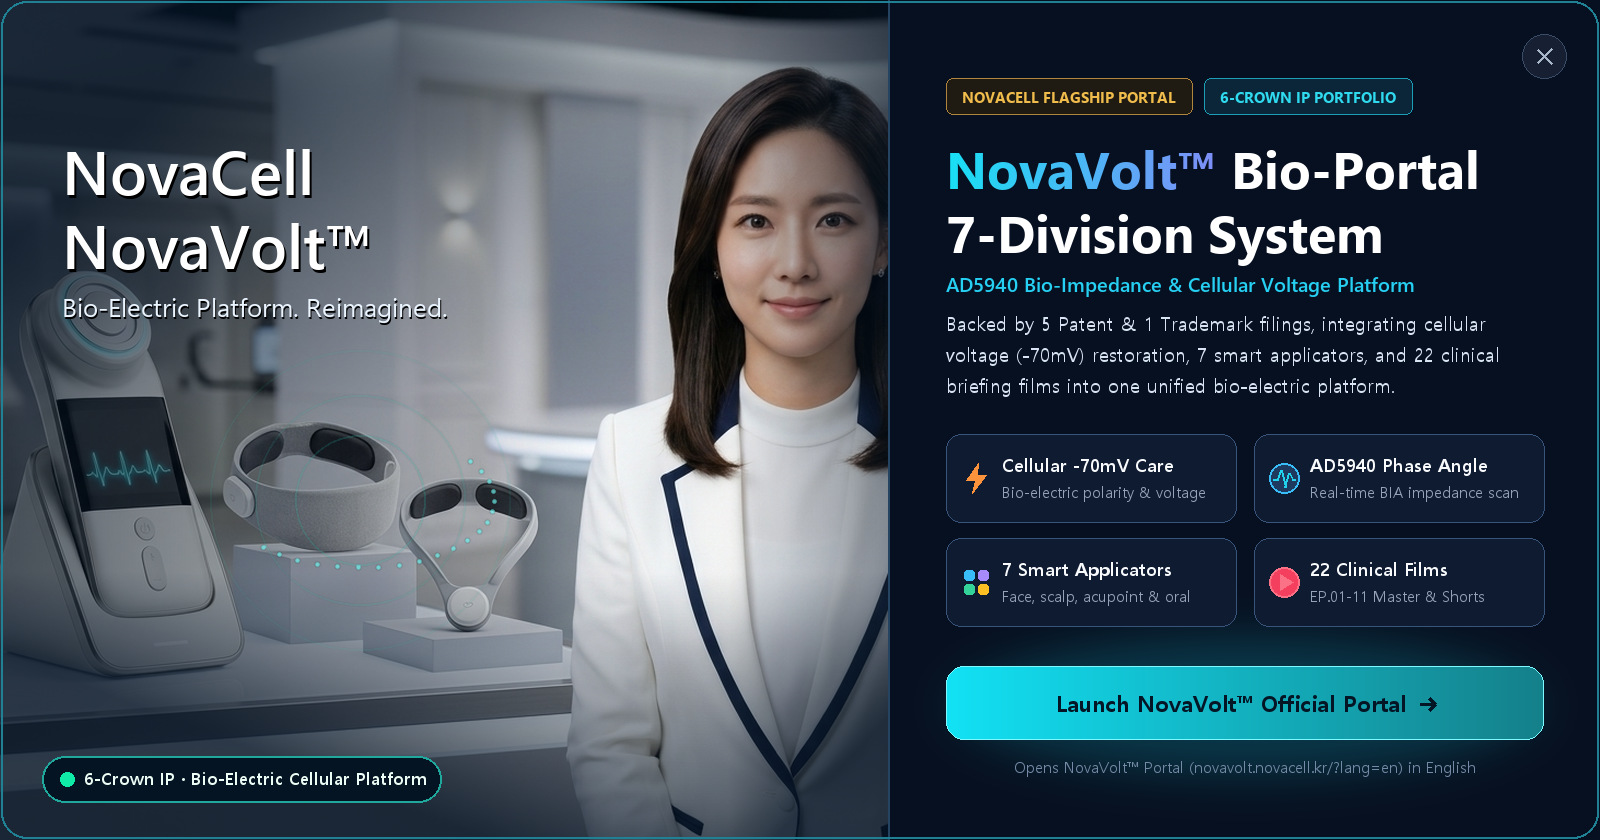
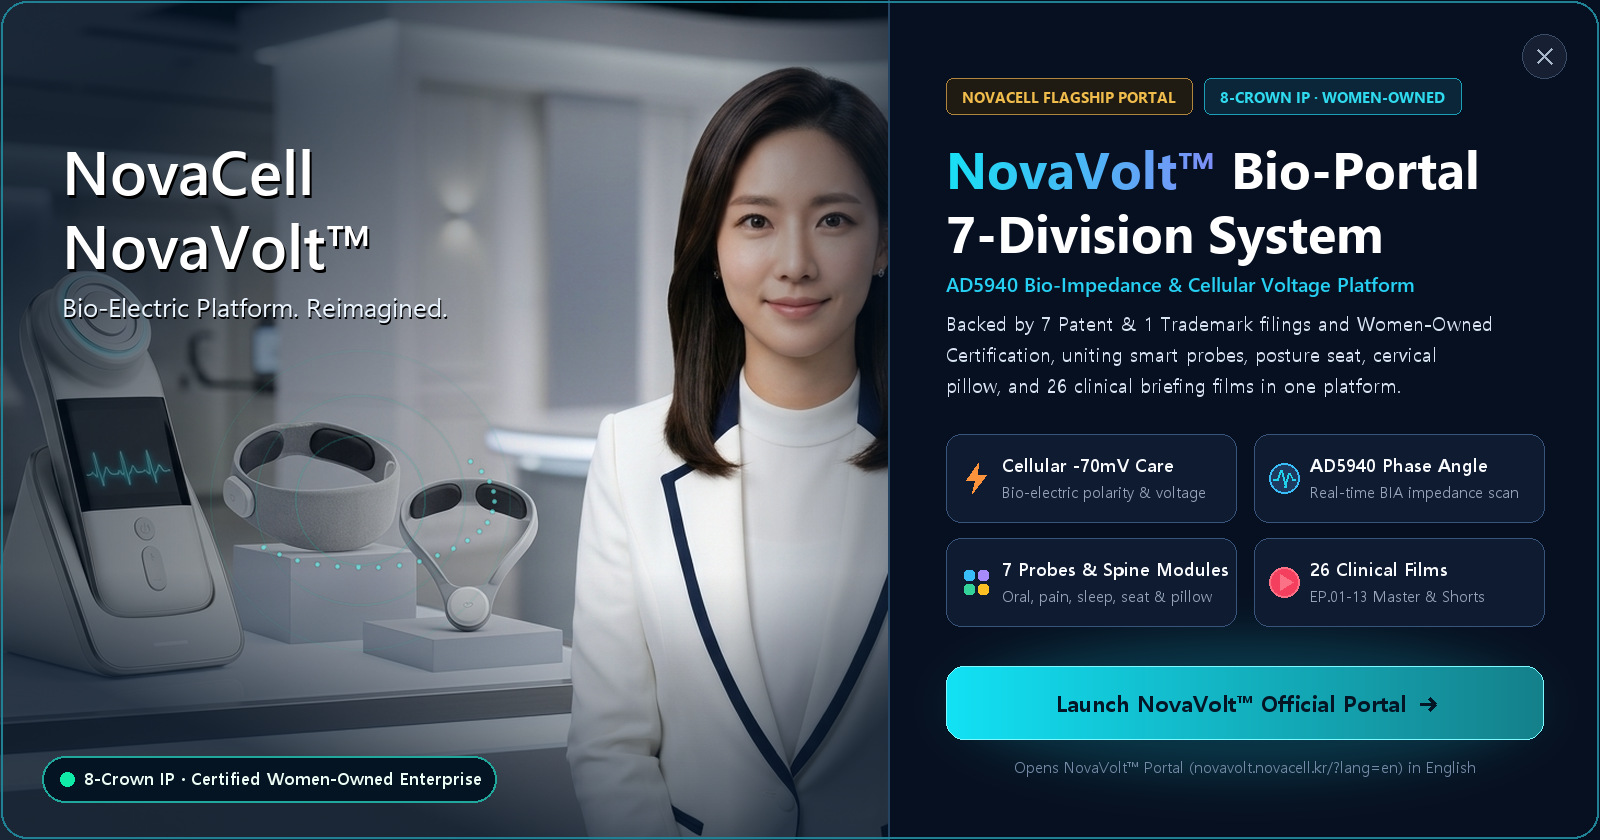
Upgrade NovaVolt portal showcase & hero badges to 8-Crown IP and 26 Clinical Films (ko/en)

diff --git a/ko/index.html b/ko/index.html
@@ -188,7 +188,7 @@
             </a>
             <div style="display: flex; gap: 16px; width: 100%; flex-wrap: wrap;">
               <a href="https://novavolt.novacell.kr/" target="_blank" rel="noopener noreferrer" class="btn btn-outline-white btn-hero-healing" style="border-color: rgba(56, 217, 232, 0.78) !important;">
-                <i class="ri-flashlight-fill text-gold"></i> 노바볼트™ 포털 (특허 6관왕)
+                <i class="ri-flashlight-fill text-gold"></i> 노바볼트™ 포털 (특허 8관왕)
               </a>
               <a href="https://novavolt.novacell.kr/dental" target="_blank" rel="noopener noreferrer" class="btn btn-outline-white btn-hero-healing" style="border-color: rgba(52, 211, 153, 0.72) !important;">
                 <svg width="16" height="16" viewBox="0 0 24 24" fill="none" stroke="#38bdf8" stroke-width="2.1" stroke-linecap="round" stroke-linejoin="round" style="flex-shrink:0;" aria-hidden="true"><path d="M12 5.5C9.8 3.6 6.2 4 4.8 6.6c-1.3 2.5-.6 5.6.7 8.1.9 1.8 1.2 4.8 2.6 5.8 1.3.9 2.2-1.8 3.9-1.8s2.6 2.7 3.9 1.8c1.4-1 1.7-4 2.6-5.8 1.3-2.5 2-5.6.7-8.1C17.8 4 14.2 3.6 12 5.5Z"/></svg> 치과·구강 스팟 pH 전문관
@@ -268,14 +268,14 @@
     </div>
   </section>
 
-  <!-- NovaVolt Official Portal Showcase (6-Crown IP) -->
+  <!-- NovaVolt Official Portal Showcase (8-Crown IP & 26 Films) -->
   <section class="healing-home-section" id="novavolt-portal" style="border-top: 1px solid rgba(64, 221, 232, 0.2);">
     <div class="container healing-home-grid">
       <div>
         <div class="badge-tag"><i class="ri-flashlight-fill"></i> NOVACELL FLAGSHIP BIO-PLATFORM</div>
         <h2>NovaCell<br><span>NovaVolt™ 공식 포털</span></h2>
-        <p>세포전압(-70mV) 복원 원리와 AD5940 생체임피던스 위상각 정밀 계측, 구강·통증·수면·동적 자세교정 시트(노바-포스처™)·모듈러 경추베개(노바-서비컬™) 등 특화 솔루션 및 공식 브리핑 영상 22종을 집대성한 차세대 바이오일렉트릭 플랫폼입니다.</p>
-        <div class="healing-home-points"><span>특허 7건 · 상표 1건 출원</span><span>중기부 공인 여성기업</span><span>특화 도자 · 척추·경추 모듈</span><span>공식 영상 22종</span></div>
+        <p>세포전압(-70mV) 복원 원리와 AD5940 생체임피던스 위상각 정밀 계측, 구강·통증·수면·동적 자세교정 시트(노바-포스처™)·모듈러 경추베개(노바-서비컬™) 등 특화 솔루션 및 공식 브리핑 영상 26종을 집대성한 차세대 바이오일렉트릭 플랫폼입니다.</p>
+        <div class="healing-home-points"><span>특허 7건 · 상표 1건 출원</span><span>중기부 공인 여성기업</span><span>특화 도자 · 척추·경추 모듈</span><span>공식 영상 26종</span></div>
         <div class="healing-home-price"><span>지식재산권 · 공인인증</span><strong style="font-size: 1.48rem;">특허 7건 · 상표 1건 (8관왕) · 여성기업 공인</strong></div>
         <div class="healing-home-actions"><a href="https://novavolt.novacell.kr/solutions" target="_blank" rel="noopener noreferrer" class="btn btn-gold"><i class="ri-flashlight-fill"></i> 7대 분과 솔루션 상세 보기</a><a href="https://novavolt.novacell.kr/" target="_blank" rel="noopener noreferrer" class="btn btn-outline-white"><i class="ri-external-link-line"></i> 포털 바로가기</a></div>
       </div>

diff --git a/en/index.html b/en/index.html
@@ -198,7 +198,7 @@
             </a>
             <div style="display: flex; gap: 16px; width: 100%; flex-wrap: wrap;">
               <a href="https://novavolt.novacell.kr/?lang=en" target="_blank" rel="noopener noreferrer" class="btn btn-outline-white btn-hero-healing" style="border-color: rgba(56, 217, 232, 0.78) !important;">
-                <i class="ri-flashlight-fill text-gold"></i> NovaVolt™ Portal (6-Crown IP)
+                <i class="ri-flashlight-fill text-gold"></i> NovaVolt™ Portal (8-Crown IP)
               </a>
               <a href="https://novavolt.novacell.kr/dental?lang=en" target="_blank" rel="noopener noreferrer" class="btn btn-outline-white btn-hero-healing" style="border-color: rgba(52, 211, 153, 0.72) !important;">
                 <svg width="16" height="16" viewBox="0 0 24 24" fill="none" stroke="#38bdf8" stroke-width="2.1" stroke-linecap="round" stroke-linejoin="round" style="flex-shrink:0;" aria-hidden="true"><path d="M12 5.5C9.8 3.6 6.2 4 4.8 6.6c-1.3 2.5-.6 5.6.7 8.1.9 1.8 1.2 4.8 2.6 5.8 1.3.9 2.2-1.8 3.9-1.8s2.6 2.7 3.9 1.8c1.4-1 1.7-4 2.6-5.8 1.3-2.5 2-5.6.7-8.1C17.8 4 14.2 3.6 12 5.5Z"/></svg> Dental &amp; Oral Spot pH Pavilion
@@ -278,14 +278,14 @@
     </div>
   </section>
 
-  <!-- NovaVolt Official Portal Showcase (6-Crown IP) -->
+  <!-- NovaVolt Official Portal Showcase (8-Crown IP & 26 Films) -->
   <section class="healing-home-section" id="novavolt-portal" style="border-top: 1px solid rgba(64, 221, 232, 0.2);">
     <div class="container healing-home-grid">
       <div>
         <div class="badge-tag"><i class="ri-flashlight-fill"></i> NOVACELL FLAGSHIP BIO-PLATFORM</div>
         <h2>NovaCell<br><span>NovaVolt™ Official Portal</span></h2>
-        <p>A next-generation bio-electric platform uniting cellular voltage (-70mV) restoration, AD5940 multi-frequency phase-angle diagnostics, oral, pain, sleep, dynamic posture-seat (NovaPosture™) &amp; cervical-pillow (NovaCervical™) modules, and 22 clinical briefing films.</p>
-        <div class="healing-home-points"><span>7 Patents &amp; 1 Trademark</span><span>MSS Women-Owned Cert.</span><span>Smart Probes &amp; Spine Care</span><span>22 Clinical Films</span></div>
+        <p>A next-generation bio-electric platform uniting cellular voltage (-70mV) restoration, AD5940 multi-frequency phase-angle diagnostics, oral, pain, sleep, dynamic posture-seat (NovaPosture™) &amp; cervical-pillow (NovaCervical™) modules, and 26 clinical briefing films.</p>
+        <div class="healing-home-points"><span>7 Patents &amp; 1 Trademark</span><span>MSS Women-Owned Cert.</span><span>Smart Probes &amp; Spine Care</span><span>26 Clinical Films</span></div>
         <div class="healing-home-price"><span>IP &amp; Certification</span><strong style="font-size: 1.48rem;">7 Patents · 1 Trademark · Women-Owned Cert.</strong></div>
         <div class="healing-home-actions"><a href="https://novavolt.novacell.kr/solutions?lang=en" target="_blank" rel="noopener noreferrer" class="btn btn-gold"><i class="ri-flashlight-fill"></i> Explore 7-Division Solutions</a><a href="https://novavolt.novacell.kr/?lang=en" target="_blank" rel="noopener noreferrer" class="btn btn-outline-white"><i class="ri-external-link-line"></i> Launch Portal</a></div>
       </div>
